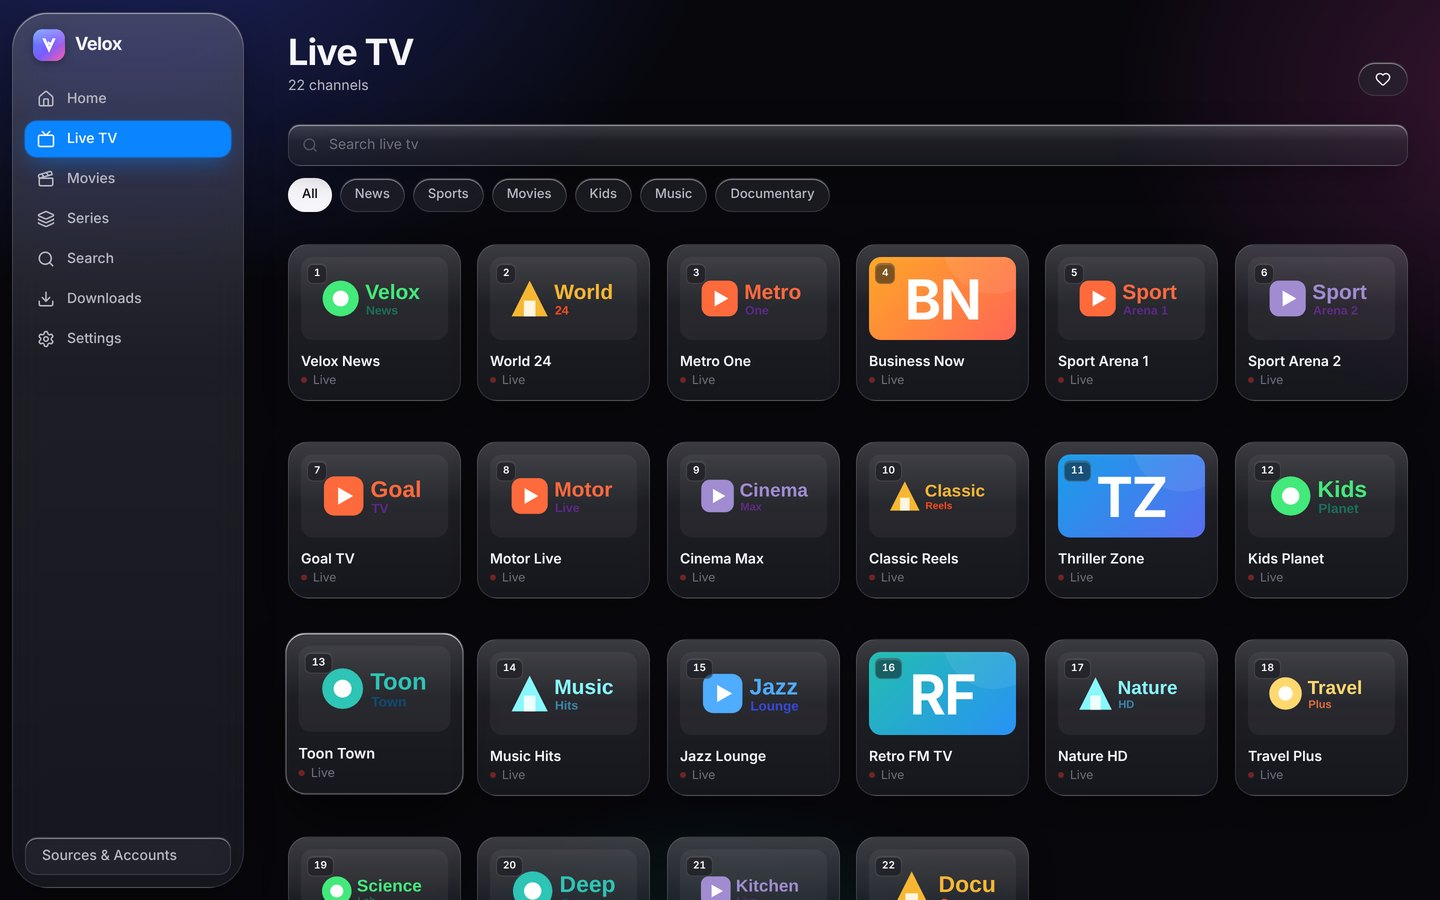
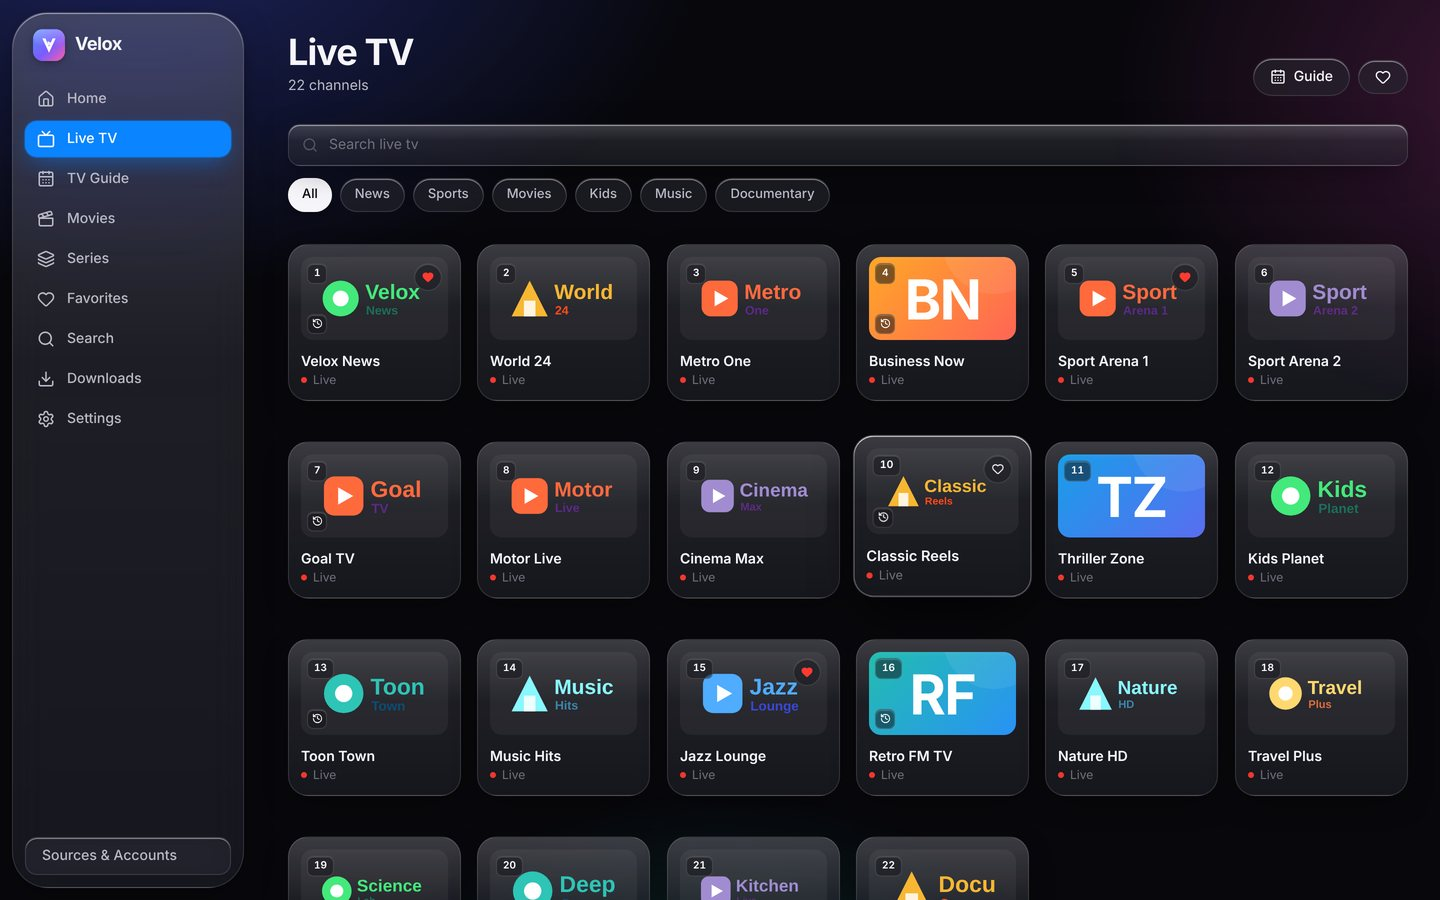
Show favorite channels as channel tiles on Home; refreshed screenshots and README; v1.6.1

diff --git a/src/pages/HomePage.tsx b/src/pages/HomePage.tsx
@@ -161,11 +161,17 @@ export function HomePage() {
 
       {favItems.length > 0 && (
         <Shelf title="Favorites">
-          {favItems.slice(0, 20).map((item) => (
-            <div key={item.uid} className="w-32 shrink-0 md:w-40">
-              <PosterCard item={item} onSelect={open} />
-            </div>
-          ))}
+          {favItems.slice(0, 20).map((item) =>
+            item.kind === "live" ? (
+              <div key={item.uid} className="w-44 shrink-0 self-start">
+                <ChannelTile item={item} onSelect={(c) => play(c, { channels: favItems.filter((f) => f.kind === "live") })} />
+              </div>
+            ) : (
+              <div key={item.uid} className="w-32 shrink-0 md:w-40">
+                <PosterCard item={item} onSelect={open} />
+              </div>
+            ),
+          )}
         </Shelf>
       )}
 

diff --git a/README.md b/README.md
@@ -10,35 +10,48 @@ Velox isn't tied to one provider. You can mix any of these in a single library:
 | **M3U / M3U8** | Playlist URL or imported file, `group-title` categories, `tvg-logo`, `#EXTVLCOPT` headers, XMLTV EPG via `url-tvg` |
 | **Direct URLs** | Bookmarked HLS / MPEG-TS / MP4 / MKV streams |
 | **Local files** | Folders on the device, sidecar subtitles (`movie.en.srt`, `movie.vtt`) picked up automatically |
+| **Jellyfin / Emby** | Movies, shows and Live TV with EPG, server-side transcoding, external subtitles, cast photos, resume sync |
+| **Plex** | Sign in with Plex (PIN flow) or URL + token, movies and shows, direct play or HLS transcode, subtitles, trailers, progress sync |
 
-New backends (Plex, Jellyfin, custom scrapers) are plugins: implement `MediaSource` and call `registerSourceFactory()`.
+More backends are plugins: implement `MediaSource` and call `registerSourceFactory()`.
 
 ## Screenshots
 
-> Captured from the web build against a mock Xtream server (artwork and channels are generated placeholders).
+> Captured from the web build against a mock Xtream server. Posters, logos, ratings and reviews are generated placeholders.
 
-| Home (dark) | Live TV | Player with captions |
+| Home | Live TV | TV Guide |
 | --- | --- | --- |
-| ![Home](docs/screenshots/desktop-dark-home.jpg) | ![Live TV](docs/screenshots/desktop-dark-live.jpg) | ![Player](docs/screenshots/desktop-dark-player.jpg) |
+| ![Home](docs/screenshots/desktop-dark-home.jpg) | ![Live TV](docs/screenshots/desktop-dark-live.jpg) | ![TV Guide](docs/screenshots/desktop-dark-guide.jpg) |
 
-| Movies | Series detail | Settings |
+| Title page (ratings, cast, reviews) | Series | Player with captions |
 | --- | --- | --- |
-| ![Movies](docs/screenshots/desktop-dark-movies.jpg) | ![Series](docs/screenshots/desktop-dark-series-detail.jpg) | ![Settings](docs/screenshots/desktop-dark-settings.jpg) |
+| ![Title](docs/screenshots/desktop-dark-title.jpg) | ![Series](docs/screenshots/desktop-dark-series-detail.jpg) | ![Player](docs/screenshots/desktop-dark-player.jpg) |
 
-| Home (light) | Movies (light) | Search |
+| Mini player | Favorites | Settings |
 | --- | --- | --- |
-| ![Home light](docs/screenshots/desktop-light-home.jpg) | ![Movies light](docs/screenshots/desktop-light-movies.jpg) | ![Search](docs/screenshots/desktop-light-search.jpg) |
+| ![Mini player](docs/screenshots/desktop-dark-mini.jpg) | ![Favorites](docs/screenshots/desktop-dark-favorites.jpg) | ![Settings](docs/screenshots/desktop-dark-settings.jpg) |
+
+| Home (light) | Movies (light) | Title (light) |
+| --- | --- | --- |
+| ![Home light](docs/screenshots/desktop-light-home.jpg) | ![Movies light](docs/screenshots/desktop-light-movies.jpg) | ![Title light](docs/screenshots/desktop-light-title.jpg) |
 
 **iPhone 16 Pro Max layout**
 
-| | | | | |
-| --- | --- | --- | --- | --- |
-| ![](docs/screenshots/iphone-dark-home.jpg) | ![](docs/screenshots/iphone-dark-live.jpg) | ![](docs/screenshots/iphone-light-movies.jpg) | ![](docs/screenshots/iphone-light-series-detail.jpg) | ![](docs/screenshots/iphone-dark-player.jpg) |
+| | | | | | |
+| --- | --- | --- | --- | --- | --- |
+| ![](docs/screenshots/iphone-dark-home.jpg) | ![](docs/screenshots/iphone-dark-guide.jpg) | ![](docs/screenshots/iphone-light-title.jpg) | ![](docs/screenshots/iphone-light-series-detail.jpg) | ![](docs/screenshots/iphone-light-favorites.jpg) | ![](docs/screenshots/iphone-dark-player.jpg) |
 
 ## Features
 
 - **Liquid Glass UI**: frosted translucent surfaces, inner highlights, hairline borders, bento layouts, spring hover/tap animations. Light, dark and system themes, accent colours and a reduce-transparency option.
 - **Native window materials**: on **macOS 26+** the window is backed by Apple's real Liquid Glass (`NSGlassEffectView`, via `window-vibrancy`). Older macOS versions get `NSVisualEffectView` vibrancy, and Windows 11 gets Mica. When a native material is active, the web UI turns translucent so the system glass shows through. On macOS the title bar is a transparent overlay.
+- **Native iOS tab bar**: on iPhone, a real `UITabBar` (local Swift plugin `tauri-plugin-native-glass`) replaces the CSS tab bar. It is Liquid Glass on iOS 26 and drives the app's navigation.
+- **Favorites**: heart any channel, movie or show. Favorites have their own page and Home shelf, and survive sources going offline.
+- **Hide & parental controls**: long-press or right-click to hide a channel, title or whole category. Adult categories are hidden by default, and an optional parental PIN guards un-hiding.
+- **TV guide**: timeline grid (3 h back, 12 h ahead) with a now line, category filter, programme details, **catch-up** for Xtream and M3U (`catchup`/`catchup-source` templates: default, append, shift, flussonic) and **Remind me** notifications.
+- **Title pages**: backdrop hero with an auto-playing muted trailer, ratings from **IMDb, Rotten Tomatoes and Metacritic** (via an OMDb key) plus **TMDB** and the provider, cast with photos, TMDB reviews, awards, and More like this. Provider metadata works without keys; TMDB and OMDb keys are optional and free.
+- **Player**: resume where you left off, an in-app mini player that keeps playing while you browse, channel zapping with an in-player channel list, Start over for live programmes, playback speed, sleep timer, and an up-next countdown for episodes.
+- **Extras**: Recent channels and Continue watching shelves, a keyboard shortcuts overlay (`?`), and JSON backup / restore of favorites, hidden items, reminders, settings and sources.
 - **Artwork fallbacks**: logos and posters from Xtream/M3U metadata. Broken, 404 or 1×1 images get replaced by a generated gradient SVG with the channel's initials.
 - **Playback**: hls.js, mpegts.js, or native HTML5/AVPlayer (hardware-accelerated) is picked per platform. On iOS and Safari, HLS goes through the native pipeline so AirPlay and PiP work.
 - **Live time-shift**
@@ -70,14 +83,15 @@ New backends (Plex, Jellyfin, custom scrapers) are plugins: implement `MediaSour
 │   │   ├── xtream.ts         # Xtream Codes player_api client
 │   │   ├── m3u.ts, m3uParser.ts
 │   │   ├── local.ts          # native folder scan / browser folder picker
+│   │   ├── jellyfin.ts, plex.ts
 │   │   └── direct.ts
-│   ├── store/                # Zustand: settings, sources, library (unified view), player, downloads
+│   ├── store/                # Zustand: settings, sources, library (unified view + filters), player, downloads, filters, reminders
 │   ├── components/
 │   │   ├── player/           # VeloxPlayer, engine selection (hls.js / mpegts.js / native), TrackMenu (subs + audio)
 │   │   ├── media/            # Artwork (fallbacks), PosterCard, ChannelTile, VirtualGrid
 │   │   ├── layout/           # AppShell (sidebar / iOS tab bar), PlayerHost
 │   │   └── ui/
-│   ├── pages/                # Home (bento), Browse (live/movies/series), SeriesDetail, Search, Downloads, Sources, Settings
+│   ├── pages/                # Home, Browse, Guide, Title, SeriesDetail, Favorites, Search, Downloads, Sources, Settings
 │   ├── hooks/                # theme sync, stream resolution (relay / time-shift), EPG
 │   ├── lib/                  # IPC, HTTP, credentials, kv storage, subtitles, fallback art, media server client
 │   └── styles/index.css      # theme tokens (light/dark) + glass components
@@ -86,6 +100,7 @@ New backends (Plex, Jellyfin, custom scrapers) are plugins: implement `MediaSour
 │   ├── tauri.conf.json
 │   ├── capabilities/default.json
 │   ├── Info.plist, Info.ios.plist   # ATS / local networking / background audio / Files app sharing
+│   ├── plugins/native-glass/ # local Tauri plugin: Swift UITabBar (Liquid Glass on iOS 26)
 │   └── src/
 │       ├── lib.rs            # app setup, state, command registration, purge on exit
 │       ├── server.rs         # axum localhost relay: /proxy, /ts/{id}/index.m3u8, /ts/{id}/{seg}
@@ -140,5 +155,7 @@ For the web deploy, set **Settings → Pages → Source** to *GitHub Actions*.
 - **Encrypted HLS** (AES-128/SAMPLE-AES) works with native time-shift but not with the Software Buffer Cache.
 - **iCloud Keychain sync**: credentials go to the device keychain. Syncing them across devices needs the `kSecAttrSynchronizable` attribute. That attribute isn't set by `keyring`, so it's planned as a small Swift plugin.
 - **iOS background downloads** continue while the app is in the foreground or briefly backgrounded. Fully suspended transfers need a `URLSession` background-configuration plugin, which is also planned.
-- **Native Liquid Glass inside the UI**: the in-app panels, cards and tab bar are CSS (`backdrop-filter`) recreations, because a WebView can't host native `NSGlassEffectView`/`UIGlassEffect` per element. Native glass covers the window background on macOS. On iOS, the system video player (fullscreen / AirPlay / PiP) uses Apple's native controls. A native iOS backdrop via a Swift plugin is a possible next step.
+- **Native Liquid Glass inside the UI**: in-app panels and cards are CSS (`backdrop-filter`) recreations, because a WebView can't host native glass per element. Native glass covers the window background on macOS and the tab bar on iOS. iOS apps don't show the wallpaper behind them, so a native glass background wouldn't add anything there.
+- **YouTube trailers in the native apps**: some WebView setups refuse YouTube embeds (no referrer), so the trailer modal also has an **Open in YouTube** button.
+- **IMDb data**: IMDb has no public API. IMDb ratings come from OMDb (free key), and reviews come from TMDB.
 - **Web build**: Xtream and M3U servers often don't send CORS headers. Configure a CORS proxy in Settings, or use the native apps.
